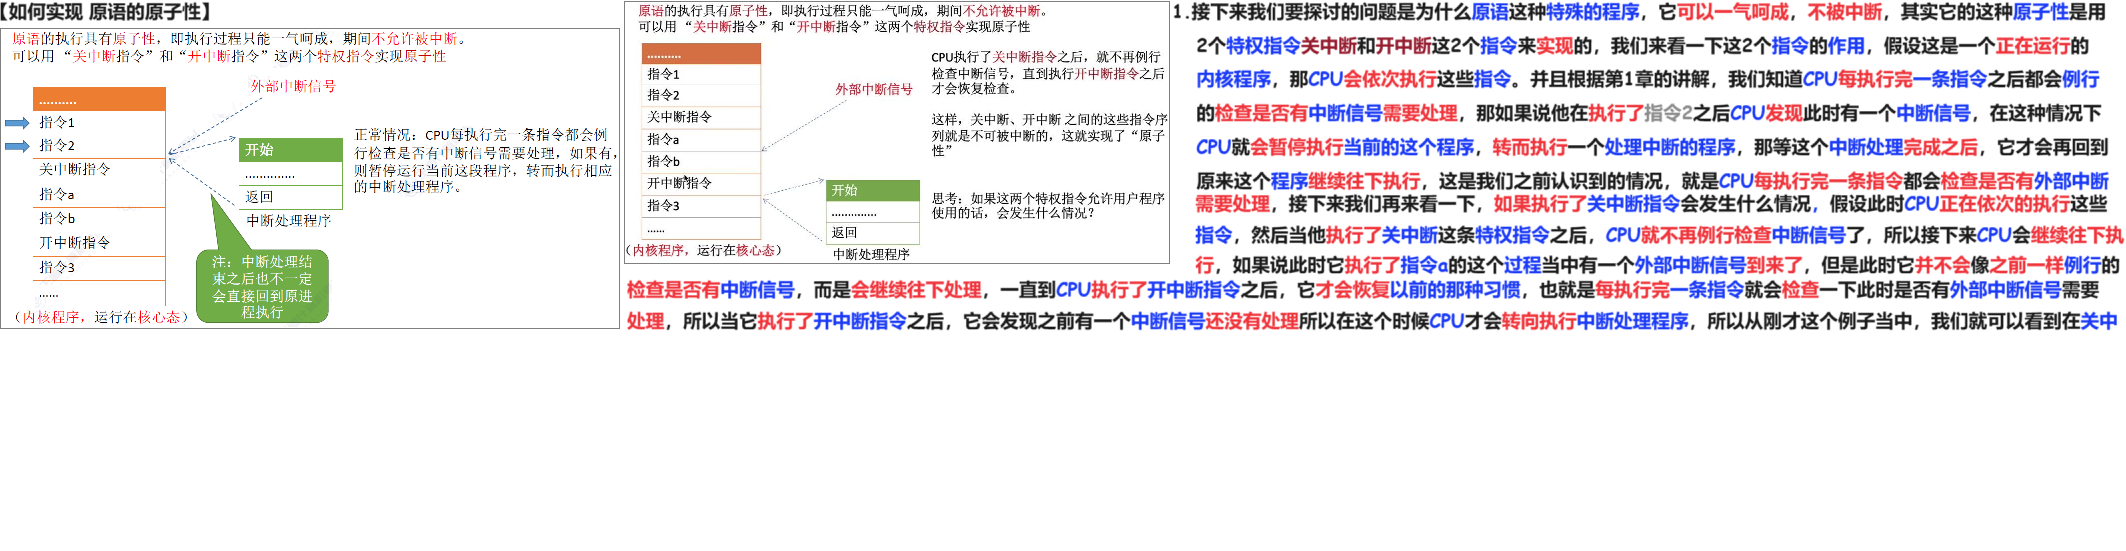
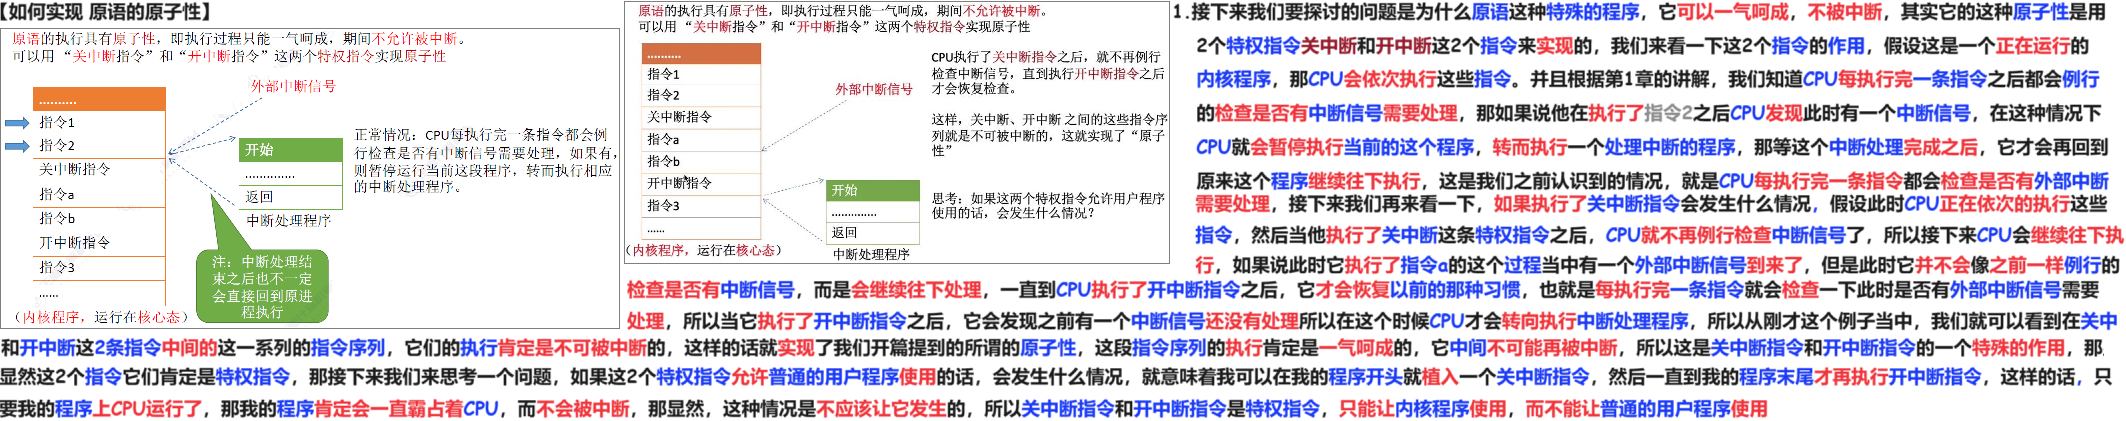
240511

diff --git a/01 初试/01 OS/02 24 25 王道/01 基础/02 进程 线程/01 进程 线程/03 进程控制 240511/02 Doc.md b/01 初试/01 OS/02 24 25 王道/01 基础/02 进程 线程/01 进程 线程/03 进程控制 240511/02 Doc.md
@@ -22,3 +22,14 @@
 
 # 04 如何实现 原语的原子性
 
+<img src="https://cvp.oss-cn-shanghai.aliyuncs.com/picgo/202405111518362.png" alt="image-20240511151851011" style="zoom:50%;" />
+
+
+
+# 05 进程控制 相关原语
+
+<img src="https://cvp.oss-cn-shanghai.aliyuncs.com/picgo/202405111650747.png" alt="image-20240511165014169" style="zoom:50%;" />
+
+
+
+# 06 知识滚雪球 程序是如何运行的
